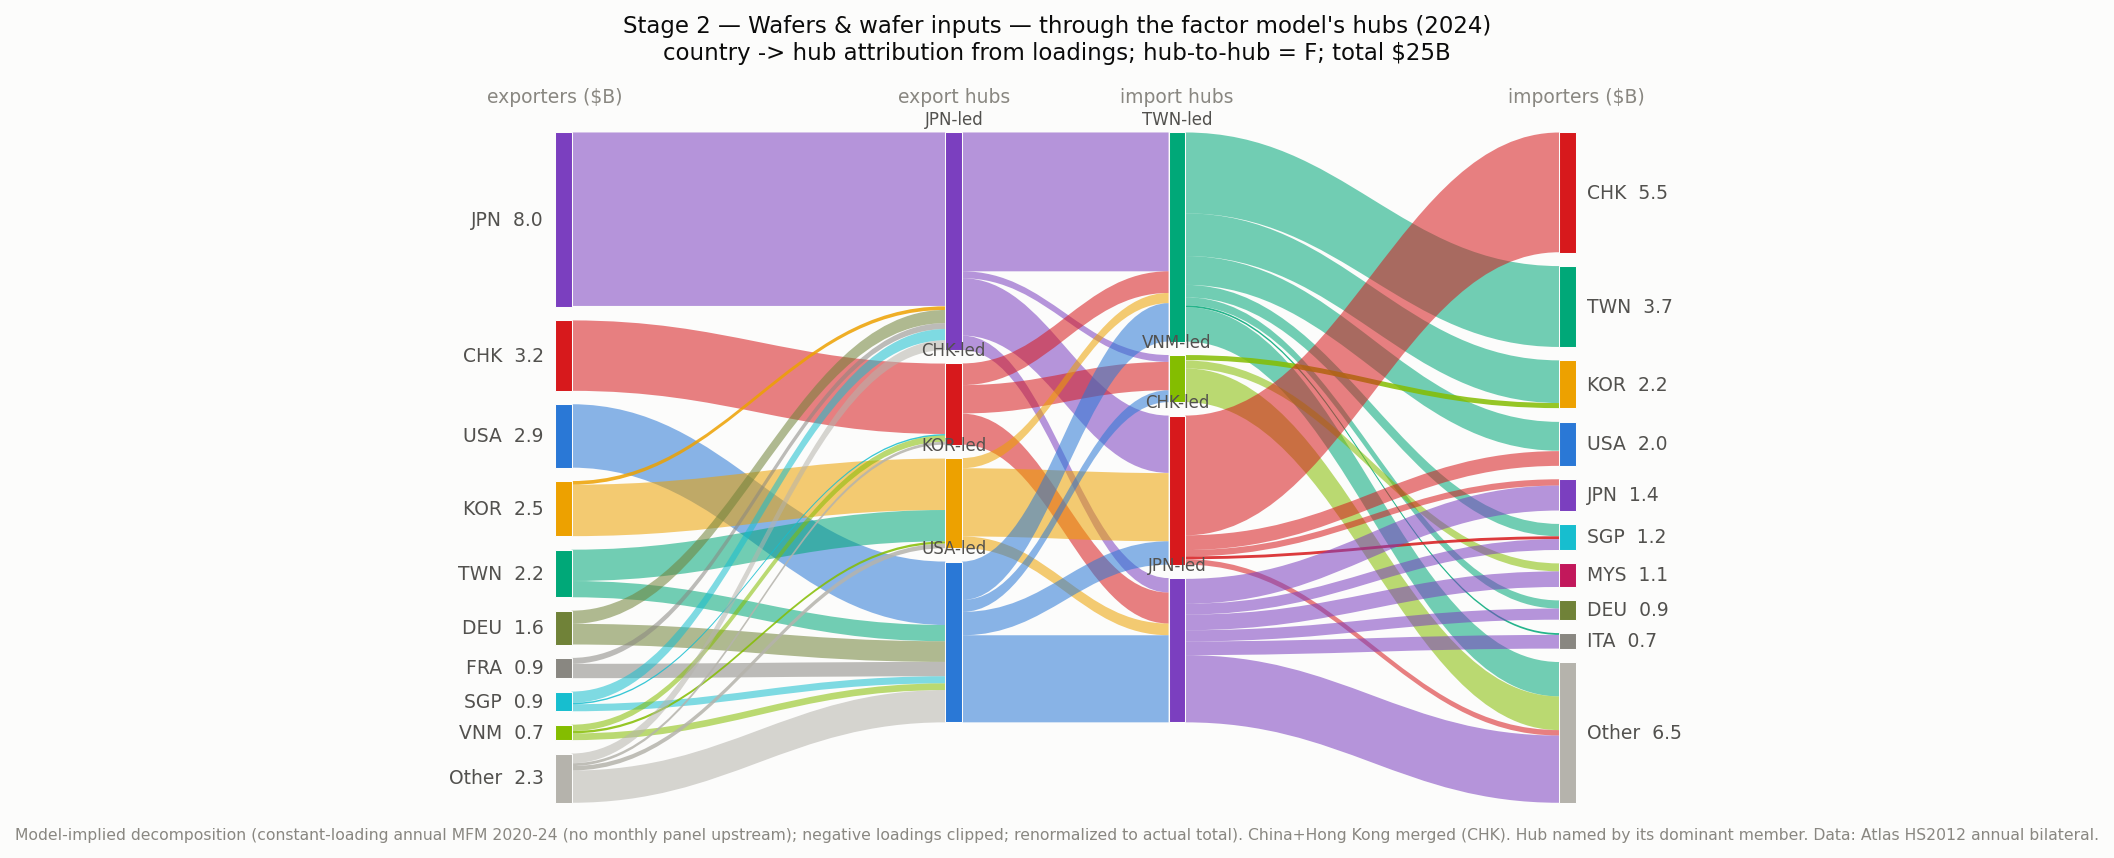
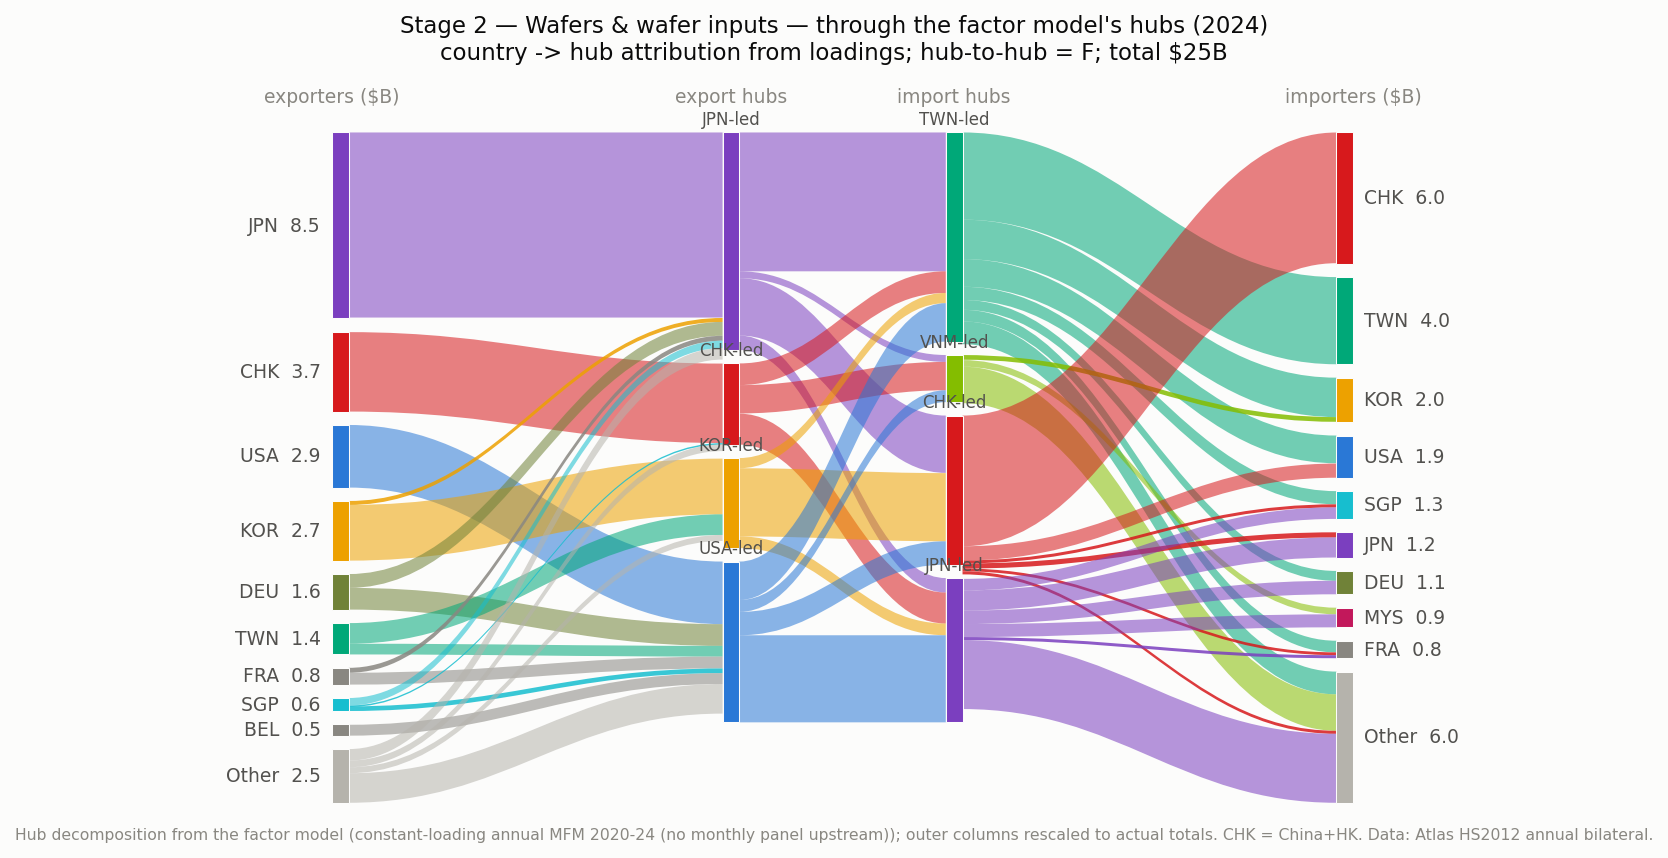
Charts: 2024 only (drop 2025 versions), short footnotes; note country-node graph idea
Per user direction: 2025 chart variants removed for now; footers trimmed
to essentials (the long footnote was stretching the canvas); narrative
notes the integrated-assembly limitation (Mexico: chips in, servers out)
and the overview's intra-assembly gap; brainstorm gains the country-node
network graph as the complementary visualization for exactly that
limitation.

diff --git a/scripts/export_supply_chain_sankey.py b/scripts/export_supply_chain_sankey.py
@@ -286,6 +286,20 @@ def draw_hub_chart(fname, title, code_or_baskets, kind, year=YEAR):
     V *= total_actual / V.sum()
     E = (R / np.where(Rsum > 0, Rsum, 1)) [:, :] * V.sum(1)   # exporter -> exp hub
     I = (C / np.where(Csum > 0, Csum, 1)) [:, :] * V.sum(0)   # imp hub -> importer
+    # rescale outer columns to ACTUAL country totals (model attribution can misstate
+    # e.g. Mexico by 2x); hub columns keep model proportions, nodes absorb the gap
+    fl = flows_panel(code_or_baskets, year) if kind == "panel" else flows_json(code_or_baskets)
+    act_ex, act_im = {}, {}
+    for (o, t), v in fl.items():
+        act_ex[o] = act_ex.get(o, 0.0) + v
+        act_im[t] = act_im.get(t, 0.0) + v
+    for i, c in enumerate(countries):
+        rs = E[i].sum()
+        if rs > 0:
+            E[i] *= act_ex.get(c, 0.0) / rs
+        cs = I[i].sum()
+        if cs > 0:
+            I[i] *= act_im.get(c, 0.0) / cs
 
     def fold_side(M):
         tot = pd.Series(M.sum(1), index=countries)
@@ -374,9 +388,8 @@ def draw_hub_chart(fname, title, code_or_baskets, kind, year=YEAR):
     ax.set_title(f"{title} — through the factor model's hubs ({year})\n"
                  f"country -> hub attribution from loadings; hub-to-hub = F; "
                  f"total ${total_actual:.0f}B", fontsize=11, color=INK, pad=16)
-    ax.text(0.5, -0.055, f"Model-implied decomposition ({src}; negative loadings "
-            "clipped; renormalized to actual total). China+Hong Kong merged (CHK). "
-            f"Hub named by its dominant member. Data: {data_src}.",
+    ax.text(0.5, -0.055, f"Hub decomposition from the factor model ({src}); "
+            f"outer columns rescaled to actual totals. CHK = China+HK. Data: {data_src}.",
             ha="center", fontsize=7.5, color=MUTED)
     out = OUT_DIR / f"supply_chain_{fname}_hubs_{year}.png"
     fig.savefig(out, dpi=150, bbox_inches="tight", facecolor=SURFACE)
@@ -578,6 +591,8 @@ def draw_chain_overview(input_stages, seq_stages, MODE="dollar"):
         ax.text(xm, yb, lab, ha="center", fontsize=9.5, color=INK, weight="bold")
         ax.text(xm, yb - 0.032, f"${t:.0f}B", ha="center", fontsize=9, color=INK2)
     ax.text(xs[0] + nw / 2, -0.035, "fab countries", ha="center", fontsize=8.5, color=MUTED)
+    ax.text((xs[1] + xs[2]) / 2, -0.035, "assembly countries", ha="center",
+            fontsize=8.5, color=MUTED)
 
     # colour legend (consistent everywhere: CHN red, USA blue, ...)
     lx = 0.045
@@ -593,12 +608,9 @@ def draw_chain_overview(input_stages, seq_stages, MODE="dollar"):
     fig.suptitle("The AI-compute supply chain, 2024 — parallel inputs converge on the "
                  f"fabs; chips flow on to servers ({scale_note})",
                  fontsize=13, color=INK, y=0.985)
-    ax.text(0.5, -0.155, "Ribbon colour = exporting country (legend above); columns are "
-            f"checkpoints (buy left, sell right). China+Hong Kong merged (CHK). Countries under {FOLD_MIN:.0f}B on a "
-            "side fold into Other, so small stages may show few named countries. No "
-            "cross-stage absorption implied. 2024 = latest year covered by every stage. "
-            "Sources: stages 1-5 Atlas HS2012 ANNUAL bilateral (ends 2024); stages 6-8 "
-            "Comtrade+TDM monthly panel (2025 versions of those charts exist).",
+    ax.text(0.5, -0.155, "Ribbon colour = exporter; CHK = China+Hong Kong merged; "
+            f"countries under {FOLD_MIN:.0f}B/side fold into Other. Sources: Atlas annual "
+            "(stages 1-5), Comtrade+TDM monthly panel (compute stages).",
             ha="center", fontsize=8, color=MUTED)
     out = OUT_DIR / f"supply_chain_overview_{MODE}_{YEAR}.png"
     fig.savefig(out, dpi=150, bbox_inches="tight", facecolor=SURFACE)
@@ -736,12 +748,15 @@ def main():
         flows = flows_json(arg) if kind == "json" else flows_panel(arg)
         all_flows.append(flows)
         draw_hub_chart(fname, title, arg, kind)
-        if kind == "panel":
-            draw_hub_chart(fname, title, arg, kind, year="2025")
     input_stages = [("raw materials", all_flows[0]), ("wafers", all_flows[1]),
                     ("litho & optics", all_flows[2]), ("fab equipment", all_flows[3])]
-    seq_stages = [("chips", all_flows[4]), ("parts & modules", all_flows[5]),
-                  ("baseboards", all_flows[6]), ("AI servers", all_flows[7])]
+    inter = {}
+    for f in (all_flows[5], all_flows[6]):
+        for k, v in f.items():
+            inter[k] = inter.get(k, 0.0) + v
+    seq_stages = [("chips", all_flows[4]),
+                  ("intra-assembly trade (parts+baseboards)", inter),
+                  ("AI servers", all_flows[7])]
     for mode in ("dollar", "normalized"):   # log retired: inflates small (Other-heavy) stages
         draw_chain_overview(input_stages, seq_stages, mode)
 

diff --git a/docs/supply-chain-narrative.md b/docs/supply-chain-narrative.md
@@ -28,10 +28,9 @@ the chips stage.
 
 The same map as flow charts (`exports/supply_chain_*_2024.png`, regenerate with
 `python scripts/export_supply_chain_sankey.py`): a multi-column overview of all
-eight stages in two scale versions (dollar — nominally comparable widths
-everywhere; normalized — stages equalized, shares only; a log version was tried
-and retired: log of stage totals wholesale-inflates small, Other-dominated
-stages), plus one four-column chart per stage
+eight stages in two scale versions (dollar and normalized; a log version was
+tried and retired — it wholesale-inflates small, Other-dominated stages), plus
+one four-column chart per stage
 routing the flows through factor-model hubs (exporters -> export hubs -> import
 hubs -> importers; TV-MFM hubs for the three compute codes, annual
 constant-loading MFM upstream; hub decompositions fit at R^2 0.95-0.99, so
@@ -47,11 +46,14 @@ these carry the flows faithfully).
 ![parts](../exports/supply_chain_6_parts_hubs_2024.png)
 ![baseboards](../exports/supply_chain_7_baseboards_hubs_2024.png)
 ![servers](../exports/supply_chain_8_servers_hubs_2024.png)
-![servers 2025](../exports/supply_chain_8_servers_hubs_2025.png)
 
-All charts merge China+Hong Kong (CHK; intra-bloc flows excluded). Stages 1-5 are
-Atlas HS2012 annual bilateral data (ends 2024); stages 6-8 are the Comtrade+TDM
-monthly panel, which also provides 2025 versions of those three charts.
+All charts merge China+Hong Kong (CHK; intra-bloc flows excluded) and show 2024,
+the latest year covered by every stage. Stages 1-5 are Atlas HS2012 annual
+bilateral data; stages 6-8 the Comtrade+TDM monthly panel. In the overview,
+parts+baseboards form a single intra-assembly gap (trade among assembly
+countries), because in-country transformation is invisible to customs data —
+Mexico imports chips and parts and exports finished servers, performing the
+intermediate stages domestically.
 
 Two facts about this map shape everything downstream. First, **each stage lives in
 different countries**, so the chain *is* a sequence of border crossings: Japanese

diff --git a/docs/modeling-brainstorm.md b/docs/modeling-brainstorm.md
@@ -131,3 +131,15 @@ industry. If it fails these, the model is wrong, not the priors.
 *Working decisions (details in results/mfm/ and the git log): dollar levels rather
 than logs; 12-month trailing estimation window; no seasonal adjustment; era-anchored
 hub labels with breaks at 2023-07 and 2025-04.*
+
+
+## 2026-07: Visualization — country-node network graphs (OPEN)
+
+The staged flow-of-funds charts have a structural limit: columns imply goods hop
+countries between stages, but integrated assemblers (Mexico: chips in, servers
+out) do the intermediate stages domestically, which customs data cannot show. A
+complementary chart type would put COUNTRIES as nodes (one node per country, laid
+out geographically or by role) and draw product flows as directed edges between
+them, coloured/styled by product stage — so a country's full input/output mix sits
+at one node instead of being scattered across checkpoints. Candidate first cut:
+top ~12 countries + Other, edges from the same stage flow data, edge width = $.
